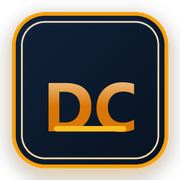
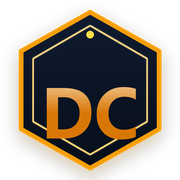
Actualización Portal Central DC Asesorías (23/11/2026, 5:14:57 p. m.)

diff --git a/index.html b/index.html
@@ -186,15 +186,13 @@
       align-items: center;
       gap: 12px;
       text-decoration: none;
-      font-size: 1.35rem;
-      font-weight: 800;
       white-space: nowrap;
       color: var(--text-main);
     }
 
     .brand-icon {
-      width: 42px;
-      height: 42px;
+      width: 44px;
+      height: 44px;
       display: flex;
       align-items: center;
       justify-content: center;
@@ -203,7 +201,32 @@
     }
 
     .brand-logo:hover .brand-icon {
-      transform: scale(1.05);
+      transform: scale(1.06);
+    }
+
+    .brand-text {
+      display: flex;
+      flex-direction: column;
+      justify-content: center;
+      line-height: 1.1;
+    }
+
+    .brand-title {
+      font-family: var(--font-heading);
+      font-size: 1.25rem;
+      font-weight: 900;
+      letter-spacing: 1.2px;
+      color: var(--text-main);
+    }
+
+    .brand-subtitle {
+      font-family: var(--font-body);
+      font-size: 0.65rem;
+      font-weight: 800;
+      letter-spacing: 3.5px;
+      color: var(--accent-gold);
+      text-transform: uppercase;
+      margin-top: 1px;
     }
 
     .nav-links {
@@ -894,12 +917,19 @@
         gap: 6px;
       }
       .brand-icon {
-        width: 32px;
-        height: 32px;
+        width: 36px;
+        height: 36px;
       }
       .brand-logo {
+        gap: 8px;
+      }
+      .brand-title {
         font-size: 1.05rem;
-        gap: 6px;
+        letter-spacing: 0.8px;
+      }
+      .brand-subtitle {
+        font-size: 0.52rem;
+        letter-spacing: 2px;
       }
       .nav-actions {
         gap: 6px;
@@ -1038,12 +1068,15 @@
     }
 
     @media (max-width: 380px) {
-      .brand-logo span {
+      .brand-subtitle {
         display: none;
       }
+      .brand-title {
+        font-size: 0.95rem;
+      }
       .brand-icon {
-        width: 34px;
-        height: 34px;
+        width: 30px;
+        height: 30px;
       }
       .nav-actions .btn {
         padding: 6px 8px;
@@ -1062,35 +1095,34 @@
        ====================================================================== -->
   <nav class="navbar">
     <div class="container nav-inner">
-      <a href="index.html" class="brand-logo">
+      <a href="index.html" class="brand-logo" title="DC Asesorías Empresariales">
         <div class="brand-icon">
           <svg viewBox="0 0 120 120" width="100%" height="100%" style="display:block;">
             <defs>
-              <linearGradient id="navGoldText1" x1="0%" y1="0%" x2="100%" y2="100%">
+              <linearGradient id="navShieldGold" x1="0%" y1="0%" x2="100%" y2="100%">
                 <stop offset="0%" stop-color="#fffbeb" />
                 <stop offset="35%" stop-color="#fbbf24" />
-                <stop offset="100%" stop-color="#d97706" />
+                <stop offset="70%" stop-color="#d97706" />
+                <stop offset="100%" stop-color="#92400e" />
               </linearGradient>
-              <linearGradient id="navBgBox1" x1="0%" y1="0%" x2="100%" y2="100%">
-                <stop offset="0%" stop-color="#12243d" />
-                <stop offset="100%" stop-color="#07111e" />
+              <linearGradient id="navShieldBg" x1="0%" y1="0%" x2="0%" y2="100%">
+                <stop offset="0%" stop-color="#111d33" />
+                <stop offset="100%" stop-color="#070d18" />
               </linearGradient>
-              <linearGradient id="navBorderGold1" x1="0%" y1="0%" x2="100%" y2="100%">
-                <stop offset="0%" stop-color="#fde047" />
-                <stop offset="50%" stop-color="#f59e0b" />
-                <stop offset="100%" stop-color="#b45309" />
-              </linearGradient>
-              <filter id="navShadow1" x="-20%" y="-20%" width="140%" height="140%">
-                <feDropShadow dx="0" dy="4" stdDeviation="5" flood-color="#f59e0b" flood-opacity="0.35" />
+              <filter id="navShieldShadow" x="-20%" y="-20%" width="140%" height="140%">
+                <feDropShadow dx="0" dy="4" stdDeviation="5" flood-color="#f59e0b" flood-opacity="0.38" />
               </filter>
             </defs>
-            <rect x="8" y="8" width="104" height="104" rx="22" fill="url(#navBgBox1)" stroke="url(#navBorderGold1)" stroke-width="2.5" filter="url(#navShadow1)"/>
-            <rect x="14" y="14" width="92" height="92" rx="16" fill="none" stroke="rgba(255,255,255,0.08)" stroke-width="1.2"/>
-            <text x="60" y="73" font-family="'Montserrat', 'Outfit', 'Inter', 'Segoe UI', Arial, sans-serif" font-weight="900" font-size="46" letter-spacing="3" fill="url(#navGoldText1)" text-anchor="middle">DC</text>
-            <rect x="36" y="84" width="48" height="3" rx="1.5" fill="url(#navGoldText1)"/>
+            <polygon points="60,8 106,34 106,86 60,112 14,86 14,34" fill="url(#navShieldBg)" stroke="url(#navShieldGold)" stroke-width="3" stroke-linejoin="round" filter="url(#navShieldShadow)"/>
+            <polygon points="60,17 98,39 98,81 60,103 22,81 22,39" fill="none" stroke="rgba(245, 158, 11, 0.4)" stroke-width="1.2" stroke-linejoin="round"/>
+            <circle cx="60" cy="23" r="2.8" fill="#fde047"/>
+            <text x="60" y="74" font-family="'Montserrat', 'Outfit', 'Inter', sans-serif" font-weight="900" font-size="45" letter-spacing="2" fill="url(#navShieldGold)" text-anchor="middle">DC</text>
           </svg>
         </div>
-        <span>DC ASESORÍAS</span>
+        <div class="brand-text">
+          <span class="brand-title">DC ASESORÍAS</span>
+          <span class="brand-subtitle">EMPRESARIALES</span>
+        </div>
       </a>
 
       <ul class="nav-links">
@@ -1527,9 +1559,16 @@
         <div style="display:flex; align-items:center; gap:12px;">
           <div class="brand-icon" style="width:38px; height:38px;">
             <svg viewBox="0 0 120 120" width="100%" height="100%">
-              <rect x="8" y="8" width="104" height="104" rx="22" fill="#12243d" stroke="#f59e0b" stroke-width="3"/>
-              <text x="60" y="73" font-family="'Montserrat', 'Outfit', sans-serif" font-weight="900" font-size="46" letter-spacing="3" fill="#f59e0b" text-anchor="middle">DC</text>
-              <rect x="36" y="84" width="48" height="3" rx="1.5" fill="#f59e0b"/>
+              <defs>
+                <linearGradient id="modalShieldGold" x1="0%" y1="0%" x2="100%" y2="100%">
+                  <stop offset="0%" stop-color="#fffbeb" />
+                  <stop offset="40%" stop-color="#fbbf24" />
+                  <stop offset="100%" stop-color="#d97706" />
+                </linearGradient>
+              </defs>
+              <polygon points="60,8 106,34 106,86 60,112 14,86 14,34" fill="#0c172a" stroke="url(#modalShieldGold)" stroke-width="3.5" stroke-linejoin="round"/>
+              <polygon points="60,17 98,39 98,81 60,103 22,81 22,39" fill="none" stroke="rgba(245, 158, 11, 0.4)" stroke-width="1.2" stroke-linejoin="round"/>
+              <text x="60" y="74" font-family="'Montserrat', 'Outfit', sans-serif" font-weight="900" font-size="45" letter-spacing="2" fill="url(#modalShieldGold)" text-anchor="middle">DC</text>
             </svg>
           </div>
           <div>
